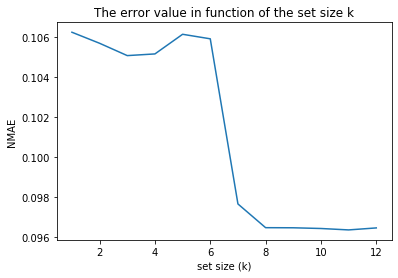
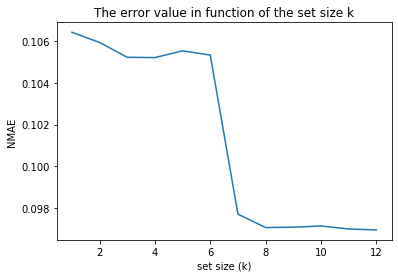
fix task 4

diff --git a/kungliga/management_of_networks/project/task_4/task_4_adika_bintang_s/adika_bintang_s.task_4.md b/kungliga/management_of_networks/project/task_4/task_4_adika_bintang_s/adika_bintang_s.task_4.md
@@ -3,15 +3,15 @@
 ## Optimal Method
 
 ```
-the smallest NMAE (0.09635857) is the model with features:
-['runq-sz', '%%memused', 'cswch/s', 'all_%%usr', 'ldavg-1', 'totsck', 'pgfree/s', 'plist-sz']
+the smallest NMAE (0.09685993) is the model with features:
+['runq-sz', '%%memused', 'cswch/s', 'all_%%usr', 'ldavg-1', 'pgfree/s', 'plist-sz', 'file-nr', 'tps']
 ```
 
 ![historgram_nmae_opt.png](historgram_nmae_opt.png "aaaaaaa")
 
 ![boxplot_nmae_opt.png](boxplot_nmae_opt.png)
 
-The method which is used to find the features with the smallest error is building a subset of each features, building the linear regression model, then finding the smallest NMAE of all the models built. The features with the smallest error are 'runq-sz', '%%memused', 'cswch/s', 'all_%%usr', 'ldavg-1', 'totsck', 'pgfree/s', 'plist-sz'.
+The method which is used to find the features with the smallest error is building a subset of each features, building the linear regression model, then finding the smallest NMAE of all the models built. The features with the smallest error are 'runq-sz', '%%memused', 'cswch/s', 'all_%%usr', 'ldavg-1', 'pgfree/s', 'plist-sz', 'file-nr', 'tps'.
 
 From the histogram, we can see the the highest number of error (NMAE) is around 0.1 with more than 3000 data. This means that the models mostly have 0.1 error with various features applied to the model.
 
@@ -23,18 +23,18 @@ We can also see that the variance of the error is very high if only one feature 
 
 ```
 Rank of the features according to the square of the correlation values:
-plist-sz: 0.6413128161281124
-totsck: 0.6388638096258311
-runq-sz: 0.6309219006257749
-ldavg-1: 0.6185186517680741
-cswch/s: 0.5405092763651523
-file-nr: 0.5257770546441308
-all_%%usr: 0.31833031026440894
-%%memused: 0.11557994822536326
-idel/s: 0.07013027198662457
-proc/s: 0.0339072892838778
-pgfree/s: 0.0008289653042888825
-tps: 0.00025865599225943954
+plist-sz: 0.6376769572704232
+totsck: 0.6348541962392853
+runq-sz: 0.6277663322832961
+ldavg-1: 0.6168571417878531
+cswch/s: 0.5307997934869442
+file-nr: 0.5221921171327957
+all_%%usr: 0.3093290304770762
+%%memused: 0.11959251450970435
+idel/s: 0.08221690076956048
+proc/s: 0.03640409968203089
+pgfree/s: 0.00017554917649260075
+tps: 5.284353085283944e-05
 ```
 
 ![error_heuristic.png](error_heuristic.png)
@@ -43,7 +43,7 @@ The correlation values calculated is within the range [-1, +1]. The rank of the 
 
 The abosulte correlation value indicates the strength of the relation ship, while the sign of the value shows the direction of the relationship [1].
 
-The heuristic method also shows how many features we need to build such a reliable model in a heuristic way. If the number of features included in a model is less then 6, the NMAE is relatively high. If the number of features is more than 6, the NMAE is steeply reduced. We can say that 8 features is the good number of features to build a model, whereas if we give more than 8, it will not significantly improve the model. The method shows that we need 8 features at least, which are plist-sz, totsck, runq-sz, ldavg-1, cswch/s, file-nr, all_%%usr, and %%memused to build a reliable model.
+The heuristic method also shows how many features we need to build such a reliable model in a heuristic way. If the number of features included in a model is less then 6, the NMAE is relatively high. If the number of features is more than 6, the NMAE is steeply reduced. We can say that 8 features is the good number of features to build a model, whereas if we give more than 8, it will not significantly improve the model. The method shows that we need 8 features at least to build a reliable model.
 
 ## Correlation matrix showing the correlation between variable
 
